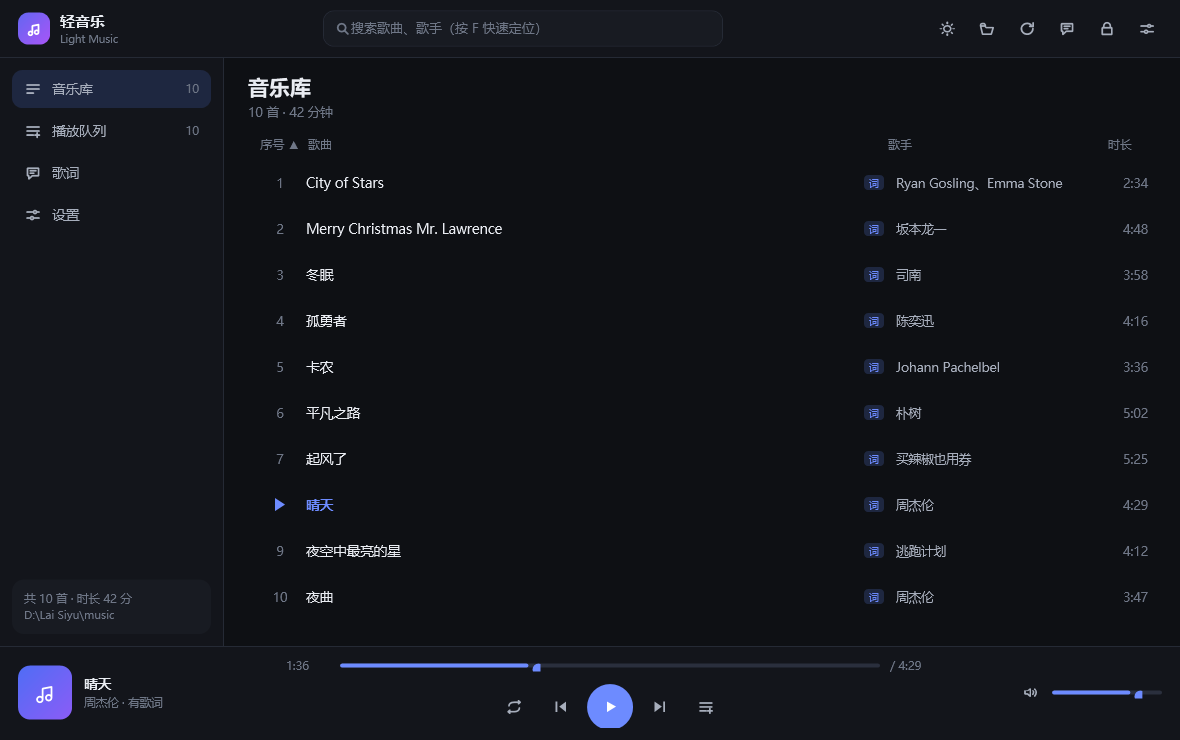
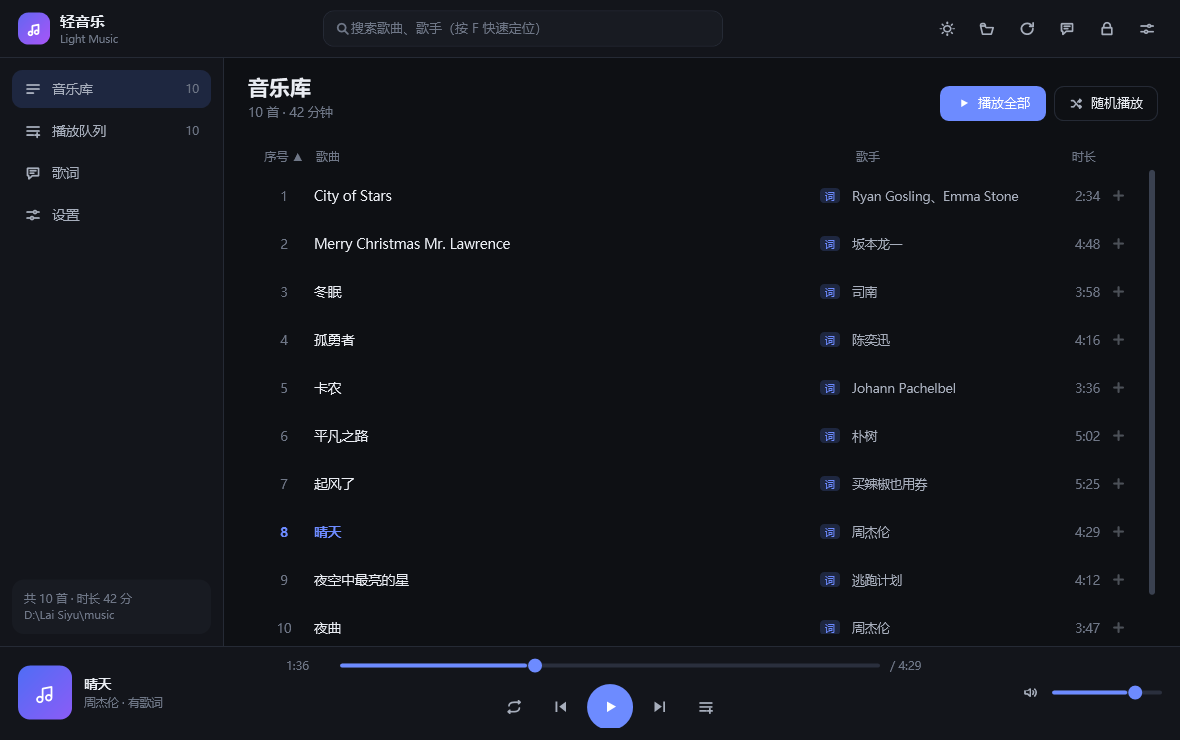
docs(release): v1.1.0 版本号、更新日志与界面截图
- 版本号提升到 1.1.0，CHANGELOG 补充 1.1.0 的新增 / 变更 / 修复

- README 更新音乐库与桌面歌词的用法说明，并刷新全部界面截图（含锁定状态下的桌面歌词）

- 截图工具适配新界面（支持 desktop-locked 视图并在渲染前推动布局）

diff --git a/src/ShotMode.cs b/src/ShotMode.cs
@@ -10,6 +10,20 @@ namespace LightMusic
     /// <summary>离屏渲染主界面为 PNG，用于开发期的视觉校对。</summary>
     public static class ShotMode
     {
+        private static void Pump(double seconds)
+        {
+            System.Windows.Threading.DispatcherFrame frame = new System.Windows.Threading.DispatcherFrame();
+            System.Windows.Threading.DispatcherTimer timer = new System.Windows.Threading.DispatcherTimer();
+            timer.Interval = TimeSpan.FromSeconds(seconds);
+            timer.Tick += delegate
+            {
+                timer.Stop();
+                frame.Continue = false;
+            };
+            timer.Start();
+            System.Windows.Threading.Dispatcher.PushFrame(frame);
+        }
+
         public static int Run(string[] args)
         {
             string output = args.Length > 1 ? args[1] : Path.Combine(Path.GetTempPath(), "lightmusic.png");
@@ -33,6 +47,7 @@ namespace LightMusic
             MainWindow window = new MainWindow();
             Theme.Apply(theme);
             window.LoadDemoForShot(view, lyricPath);
+            Pump(0.25);
 
             FrameworkElement root;
             if (view == "desktop")
@@ -40,6 +55,18 @@ namespace LightMusic
                 DesktopLyricsWindow lyric = new DesktopLyricsWindow(window);
                 lyric.ApplySettings();
                 lyric.UpdateNow();
+                lyric.SimulateHoverForShot();
+                root = lyric.Content as FrameworkElement;
+                width = 980;
+                height = 200;
+            }
+            else if (view == "desktop-locked")
+            {
+                window.Settings.LyricLocked = true;
+                DesktopLyricsWindow lyric = new DesktopLyricsWindow(window);
+                lyric.ApplySettings();
+                lyric.UpdateNow();
+                lyric.SimulateHoverForShot();
                 root = lyric.Content as FrameworkElement;
                 width = 980;
                 height = 200;
@@ -58,10 +85,14 @@ namespace LightMusic
             root.Measure(new Size(width, height));
             root.Arrange(new Rect(0, 0, width, height));
             root.UpdateLayout();
+            Pump(0.25);
+            root.Measure(new Size(width, height));
+            root.Arrange(new Rect(0, 0, width, height));
+            root.UpdateLayout();
 
             RenderTargetBitmap bitmap = new RenderTargetBitmap(
                 (int)width, (int)height, 96, 96, PixelFormats.Pbgra32);
-            if (view == "desktop")
+            if (view == "desktop" || view == "desktop-locked")
             {
                 // 桌面歌词是半透明浮窗，先铺一层桌面背景方便观察效果
                 DrawingVisual background = new DrawingVisual();

diff --git a/src/MainWindow.cs b/src/MainWindow.cs
@@ -21,7 +21,7 @@ namespace LightMusic
     public partial class MainWindow : Window
     {
         public const string AppName = "轻音乐";
-        public const string AppVersion = "1.0.0";
+        public const string AppVersion = "1.1.0";
 
         private readonly AppSettings settings;
         private readonly PlayerEngine engine = new PlayerEngine();

diff --git a/README.md b/README.md
@@ -20,15 +20,19 @@
 
 ## 功能
 
-- **歌曲列表**：自动扫描音乐文件夹，按「歌名 - 歌手.mp3」解析歌名与歌手（支持一位或多位歌手）；可搜索、可按序号 / 歌曲 / 歌手 / 时长排序。
+- **歌曲列表**：自动扫描音乐文件夹，按「歌名 - 歌手.mp3」解析歌名与歌手（支持一位或多位歌手）。
+  - **单击歌名即播放**这一首，顶部有「播放全部 / 随机播放」；
+  - 每行右侧的 **＋** 可以把这一首单独加入播放队列，右键还有更多操作；
+  - 支持搜索，以及按序号 / 歌曲 / 歌手 / 时长排序。
 - **播放控制**：播放 / 暂停、上一首 / 下一首、进度拖动、音量调节、静音。
 - **播放模式**：顺序播放、列表循环、单曲循环、随机播放。
-- **播放列表（播放队列）**：双击音乐库里的歌曲即从当前列表开始播放；右键可「下一首播放 / 添加到队列」；队列里可移除、上移下移、清空、导入导出 M3U。
+- **播放列表（播放队列）**：单击队列里的歌曲即刻播放；每行右侧的 **✕** 把这一首移出队列，右键还能上移 / 下移 / 下一首播放；支持清空、导入导出 M3U。
 - **歌词**：
   - 软件内歌词页：逐行高亮、自动滚动、点哪句跳哪句、支持翻译行（同一时间戳的第二行）、歌词偏移微调。
   - **桌面歌词**：独立置顶浮窗，可拖动、可调字号 / 颜色 / 不透明度；**支持锁定（鼠标穿透）**，锁定后完全不影响点击和操作电脑。
 - **音乐目录**：默认使用 `music` 文件夹，可随时在设置里更改，也可以直接把文件夹拖进窗口。
-- **其它**：深色 / 浅色主题、全局多媒体按键、托盘图标、记忆播放进度与窗口位置、单实例运行。
+- **主题**：**跟随系统（默认）** / 深色 / 浅色，系统切换深浅色时自动跟随。
+- **其它**：全局多媒体按键、托盘图标、记忆播放进度与窗口位置、单实例运行。
 
 ## 快速开始
 
@@ -60,11 +64,21 @@ music/
 
 ![桌面歌词](docs/screenshots/desktop-lyrics.png)
 
-- 打开：主界面顶栏的歌词按钮，或快捷键 `D`。
-- 移动：按住歌词拖动。
-- **锁定（鼠标穿透）**：右键菜单「锁定」、主界面顶栏的锁形按钮、设置里的开关，或全局快捷键 `Ctrl+Alt+L`。
-  锁定后歌词置顶显示但完全穿透鼠标：点击、拖动、框选都会直接落到下面的窗口，不影响你使用电脑；也不会出现在 Alt+Tab 里、不抢焦点。
-- 字号、颜色、不透明度、翻译开关都在「设置 → 桌面歌词」里调整，位置与样式会自动记忆。
+三种状态，互不干扰：
+
+| 状态 | 外观 | 鼠标 |
+| --- | --- | --- |
+| **已锁定** | 完全透明，只有带阴影的文字（无底色、无边框） | 整窗鼠标穿透，点击直接落到下面的窗口 |
+| **未锁定 · 鼠标不在上面** | 透明 | 不挡操作 |
+| **未锁定 · 鼠标移上去** | 出现半透明底与阴影，右上角浮出小工具栏 | 可拖动、可点工具栏 |
+
+![锁定的桌面歌词](docs/screenshots/desktop-lyrics-locked.png)
+
+- 右上角工具栏（鼠标移上去才会出现）：**锁定 / 解锁**、字号减、字号加、回到主界面、关闭。
+  锁定时整窗鼠标穿透，只有鼠标停在工具栏上时工具栏可以点，所以**锁定状态下依然能用鼠标解锁或关闭**。
+- 打开 / 隐藏：主界面顶栏的歌词按钮，快捷键 `D`，或全局快捷键 `Ctrl+Alt+D`。
+- 锁定 / 解锁：工具栏上的锁按钮、主界面顶栏的锁形按钮、设置里的开关，或全局快捷键 `Ctrl+Alt+L`。
+- 锁定后不会出现在 Alt+Tab 里，也不会抢焦点；字号、颜色、不透明度、翻译开关在「设置 → 桌面歌词」里调整，位置与样式自动记忆。
 
 ## 快捷键
 
@@ -87,7 +101,7 @@ music/
 | --- | --- |
 | ![歌词页](docs/screenshots/lyrics-dark.png) | ![播放队列](docs/screenshots/queue-dark.png) |
 
-| 设置 | 浅色主题 |
+| 设置（双列布局） | 浅色主题 |
 | --- | --- |
 | ![设置](docs/screenshots/settings-dark.png) | ![浅色主题](docs/screenshots/library-light.png) |
 

diff --git a/CHANGELOG.md b/CHANGELOG.md
@@ -3,6 +3,27 @@
 本项目的所有重要变更都会记录在这里，格式参考 [Keep a Changelog](https://keepachangelog.com/zh-CN/1.1.0/)，
 版本号遵循 [语义化版本](https://semver.org/lang/zh-CN/)。
 
+## [1.1.0] - 2026-09-16
+
+### 新增
+
+- 主题新增「跟随系统」并作为默认选项，系统在浅色 / 深色之间切换时播放器会自动跟随。
+- 音乐库顶部新增「播放全部」与「随机播放」按钮。
+- 音乐库每行右侧新增 **＋** 按钮：把这一首单独加入播放队列；单击歌名 / 整行即直接播放。
+- 播放队列每行右侧新增 **✕** 按钮：逐首移出队列。
+- 桌面歌词右上角新增悬停工具栏：锁定 / 解锁、字号加减、回到主界面、关闭，锁定状态下也能用鼠标操作。
+
+### 变更
+
+- 重新设计歌词页：左侧唱片信息卡片（含歌词偏移与桌面歌词开关），右侧逐行歌词按与当前句的距离渐隐、上下淡出遮罩、可直接点句跳转，手动滚动后出现「回到当前歌词」。
+- 重新设计设置页为双列卡片布局，音乐库与关于整行展示，右侧不再留白。
+- 桌面歌词宽度固定不再跳变；锁定时完全没有背景与阴影，未锁定时鼠标移上去才显示底色与阴影。
+- 去掉音乐库序号悬停变成播放键的行为，序号列只用于显示序号与当前播放高亮。
+
+### 修复
+
+- 修复进度条与设置页的滑块：圆形滑点与已播放（已填充）色条的端点现在严丝合缝对齐。
+
 ## [1.0.0] - 2026-09-16
 
 第一个可用版本。
